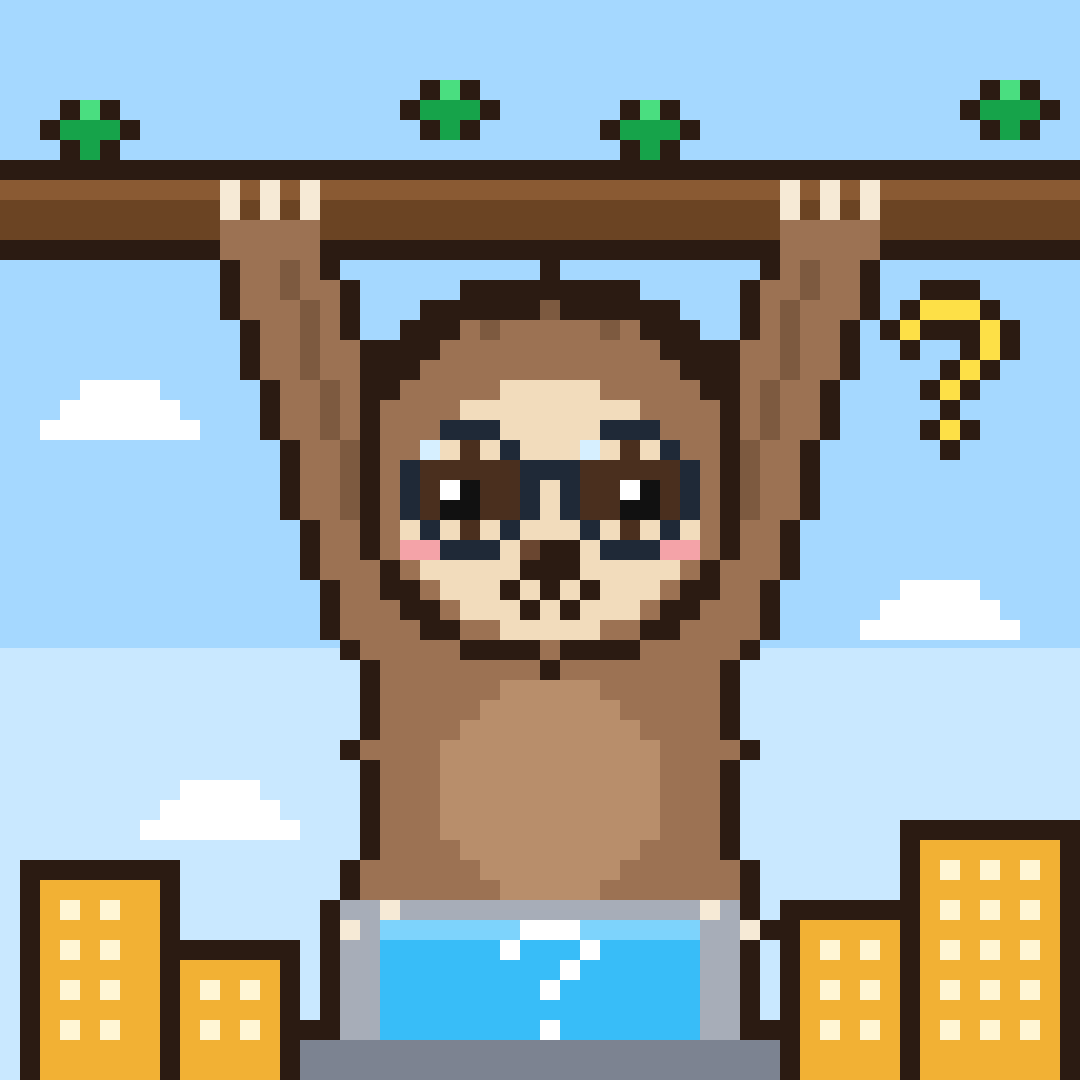
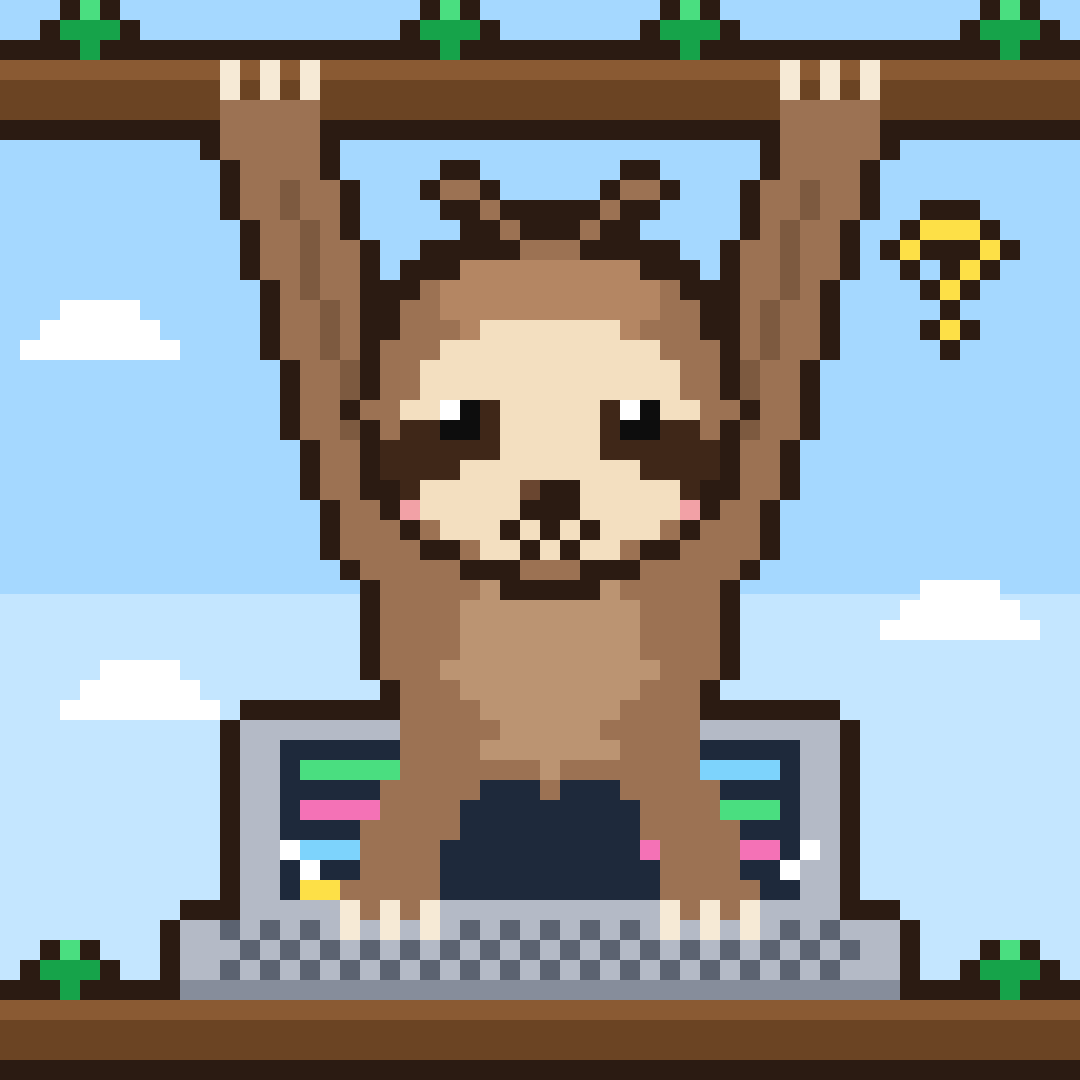
프로필 캐릭터 v2: 안경 빼고 늘보 얼굴 무늬·잔머리, 발로 노트북 코딩, 빌딩 제거 + 제미나이 프롬프트
Claude-Session: https://claude.ai/code/session_01WdwmgLGSEPWt33NoDGx5eo

diff --git a/brand/pixel.js b/brand/pixel.js
@@ -1,63 +1,65 @@
-// 🦥 빌딩늘보 프로필 캐릭터 — 도트(픽셀) 버전
-// 54×54 칸에 한 칸씩 칠하고, 테두리는 자동으로 둘러요. 다시 뽑기: node brand/render-pixel.js
-// 콘셉트: 나뭇가지에 매달린 코딩 모르는 나무늘보 · 동그란 안경 · 발로 붙잡은 노트북 화면엔 "?" · 머리 위에도 "?"
-function pixelSloth(o){o=o||{};const N=54,G=[...Array(N)].map(()=>Array(N).fill(null));
- const C={fur:'#9c7253',fur2:'#7d5a40',belly:'#b88e6b',face:'#f2dcbc',patch:'#4a2f1e',eye:'#111111',hi:'#ffffff',nose:'#2b1b12',
-  frame:'#1f2937',lens:'#d6efff',claw:'#f6ead6',lap:'#a7adb8',lap2:'#7c8391',scr:'#38bdf8',scr2:'#7dd3fc',q:'#ffffff',blush:'#f4a3a8',OL:'#2b1b12'};
+// 🦥 빌딩늘보 프로필 캐릭터 — 도트(픽셀) 버전 v2
+// 54×54칸에 한 칸씩 칠하고, 테두리는 자동으로 둘러요. 다시 뽑기: node brand/render-pixel.js
+// 콘셉트: 두 손으로 나뭇가지에 매달린 나무늘보 · 나무늘보 얼굴 무늬(눈가 줄무늬) · 머리 위 잔머리 두 가닥
+//         · 아래 가지에 놓인 노트북을 발로 타닥타닥 치며 개발 중 · 머리 옆 "?" (코딩 모름)
+function pixelSloth(){const N=54,G=[...Array(N)].map(()=>Array(N).fill(null));
+ const C={fur:'#9c7253',fur2:'#7d5a40',fur3:'#b48663',belly:'#bb9472',face:'#f3dfc0',stripe:'#3f2718',eye:'#0d0d0d',hi:'#ffffff',nose:'#2b1b12',
+  claw:'#f6ead6',lap:'#b4bac6',lap2:'#868d9b',key:'#5b6270',scr:'#1e293b',blush:'#f2a1a6',OL:'#2b1b12'};
  const set=(x,y,c)=>{x=Math.round(x);y=Math.round(y);if(x>=0&&y>=0&&x<N&&y<N)G[y][x]=c};
- const ell=(cx,cy,rx,ry,c)=>{for(let y=Math.floor(cy-ry);y<=cy+ry;y++)for(let x=Math.floor(cx-rx);x<=cx+rx;x++){const dx=(x-cx)/rx,dy=(y-cy)/ry;if(dx*dx+dy*dy<=1)set(x,y,c)}};
+ const ell=(cx,cy,rx,ry,c,rot)=>{const r=rot||0,cs=Math.cos(r),sn=Math.sin(r),R=Math.max(rx,ry)+1;
+  for(let y=Math.floor(cy-R);y<=cy+R;y++)for(let x=Math.floor(cx-R);x<=cx+R;x++){const dx=x-cx,dy=y-cy,u=(dx*cs+dy*sn)/rx,v=(-dx*sn+dy*cs)/ry;if(u*u+v*v<=1)set(x,y,c)}};
  const rect=(x0,y0,w,h,c)=>{for(let y=y0;y<y0+h;y++)for(let x=x0;x<x0+w;x++)set(x,y,c)};
- const ring=(cx,cy,r,c)=>{for(let y=Math.floor(cy-r-1);y<=cy+r+1;y++)for(let x=Math.floor(cx-r-1);x<=cx+r+1;x++){const d=Math.hypot(x-cx,y-cy);if(d<=r+.5&&d>=r-.6)set(x,y,c)}};
- const Q=['.###.','#...#','....#','...#.','..#..','.....','..#..'];const qm=(x0,y0,c)=>Q.forEach((row,y)=>[...row].forEach((ch,x)=>{if(ch==='#')set(x0+x,y0+y,c)}));
  const line=(x0,y0,x1,y1,w,c)=>{const n=Math.ceil(Math.hypot(x1-x0,y1-y0)*2);for(let i=0;i<=n;i++){const t=i/n;ell(x0+(x1-x0)*t,y0+(y1-y0)*t,w/2,w/2,c)}};
- const Q5=['.###.','#...#','...#.','..#..','.....','..#..'];const qm5=(x0,y0,c)=>Q5.forEach((row,y)=>[...row].forEach((ch,x)=>{if(ch==='#')set(x0+x,y0+y,c)}));
- // 다리 → 노트북 잡기 (몸 뒤)
- line(21,40,19,46,4,C.fur);line(33,40,35,46,4,C.fur);
- // 몸
- ell(27,37,9,9,C.fur);ell(27,39,5.5,5.5,C.belly);
- // 팔: 나뭇가지에서 어깨까지 (팔·몸 경계는 자연스럽게 이어짐)
- line(13,11,19,31,4.4,C.fur);line(41,11,35,31,4.4,C.fur);
- line(14,13,18,27,1,C.fur2);line(40,13,36,27,1,C.fur2);
- // 노트북 (화면이 보이게, 발로 붙잡음)
- rect(17,45,20,8,C.lap);rect(19,46,16,6,C.scr);rect(19,46,16,1,C.scr2);rect(15,52,24,2,C.lap2);
- qm5(25,46,C.q);
- [[17,46],[19,45],[35,45],[37,46]].forEach(([x,y])=>set(x,y,C.claw));
- // 머리: 테두리 고리를 먼저 둘러 팔과 구분
- ell(27,23.5,10,9.5,C.OL);ell(27,23.5,9,8.5,C.fur);
- ell(27,25,7.5,6.4,C.face);
- // 눈 무늬
- ell(23,24,2.8,2,C.patch);ell(31,24,2.8,2,C.patch);
- // 동그란 안경
- ring(23,24,3,C.frame);ring(31,24,3,C.frame);set(27,23,C.frame);
+ const Q=['.###.','#...#','...#.','..#..','.....','..#..'];const qm=(x0,y0,c)=>Q.forEach((row,y)=>[...row].forEach((ch,x)=>{if(ch==='#')set(x0+x,y0+y,c)}));
+ // ---- 노트북 (아래 가지 위에 놓임, 화면엔 코드 줄) ----
+ rect(12,36,30,10,C.lap);rect(14,37,26,8,C.scr);
+ [[15,38,6,'#4ade80'],[15,40,4,'#f472b6'],[15,42,7,'#7dd3fc'],[15,44,3,'#fde047'],[33,38,6,'#7dd3fc'],[34,40,5,'#4ade80'],[32,42,7,'#f472b6'],[34,44,4,'#4ade80']].forEach(([x,y,w,c])=>rect(x,y,w,1,c));
+ rect(9,46,36,4,C.lap);rect(9,49,36,1,C.lap2);
+ for(let y=46;y<=48;y++)for(let x=11+(y%2);x<=42;x+=2)set(x,y,C.key);
+ // ---- 몸 ----
+ ell(27,31,8.5,8,C.fur);ell(27,33,5,5,C.belly);
+ // 다리 → 발로 키보드 타닥타닥
+ line(22,36,19,44,4,C.fur);line(32,36,35,44,4,C.fur);
+ [[17,46],[19,46],[21,46],[33,46],[35,46],[37,46]].forEach(([x,y])=>{set(x,y,C.claw);set(x,y-1,C.claw)});
+ // ---- 팔: 두 손으로 위 가지를 꽉 ----
+ line(13,6,19,27,4.4,C.fur);line(41,6,35,27,4.4,C.fur);
+ line(14,9,18,23,1,C.fur2);line(40,9,36,23,1,C.fur2);
+ // ---- 머리 (테두리 고리로 팔과 구분) ----
+ ell(27,20,10,9.2,C.OL);ell(27,20,9,8.2,C.fur);
+ ell(27,14.5,6,2.4,C.fur3);// 정수리 밝은 털
+ // 잔머리 두 가닥 (살짝 말린 모양)
+ [[25,11],[24,10],[23,9],[22,9]].forEach(([x,y])=>set(x,y,C.fur));
+ [[29,11],[30,10],[31,9],[32,9]].forEach(([x,y])=>set(x,y,C.fur));
+ // 얼굴 가면
+ ell(27,21.5,7.6,6.4,C.face);
+ // 나무늘보 눈가 줄무늬 (눈에서 바깥 아래로 흘러내림)
+ ell(21.6,21.8,3.6,1.7,C.stripe,-0.5);ell(32.4,21.8,3.6,1.7,C.stripe,0.5);
  // 눈 + 반짝
- rect(22,24,2,2,C.eye);set(22,24,C.hi);rect(31,24,2,2,C.eye);set(31,24,C.hi);
- // 렌즈 반사
- set(21,22,C.lens);set(29,22,C.lens);
+ rect(22,20,2,2,C.eye);set(22,20,C.hi);rect(31,20,2,2,C.eye);set(31,20,C.hi);
  // 코 · 입 · 볼
- rect(26,27,3,2,C.nose);set(26,27,'#6a4630');
- set(25,29,C.nose);set(26,30,C.nose);set(27,29,C.nose);set(28,30,C.nose);set(29,29,C.nose);
- set(20,27,C.blush);set(21,27,C.blush);set(33,27,C.blush);set(34,27,C.blush);
- // 머리 털 결
- set(24,16,C.fur2);set(27,15,C.fur2);set(30,16,C.fur2);
- // 머리 위 물음표
- qm(45,15,'#fde047');
+ ell(27,24.3,1.9,1.2,C.nose);set(26,24,'#6a4630');
+ set(25,26,C.nose);set(26,27,C.nose);set(27,26,C.nose);set(28,27,C.nose);set(29,26,C.nose);
+ set(20,25,C.blush);set(34,25,C.blush);
+ // 머리 옆 물음표 (코딩 모름)
+ qm(45,11,'#fde047');
+ // 타닥타닥 효과선
+ [[15,43],[14,42],[39,43],[40,42]].forEach(([x,y])=>set(x,y,'#ffffff'));
  // ---- 테두리 자동 ----
  const out=G.map(r=>r.slice());for(let y=0;y<N;y++)for(let x=0;x<N;x++){if(G[y][x])continue;
-  const nb=[[1,0],[-1,0],[0,1],[0,-1]].some(([dx,dy])=>{const v=G[y+dy]&&G[y+dy][x+dx];return v});if(nb)out[y][x]=C.OL}
- // ---- 나뭇가지 (캐릭터 위에, 발톱이 걸치게) ----
+  if([[1,0],[-1,0],[0,1],[0,-1]].some(([dx,dy])=>G[y+dy]&&G[y+dy][x+dx]&&G[y+dy][x+dx]!=='#ffffff'))out[y][x]=C.OL}
+ // ---- 위 가지 (발톱이 걸치게) · 아래 가지 (노트북 받침) ----
  const BR='#6b4423',BR2='#8a5a33',LF='#4ade80',LF2='#16a34a';
- for(let x=0;x<N;x++){out[8][x]=C.OL;out[9][x]=BR2;out[10][x]=BR;out[11][x]=BR;out[12][x]=C.OL}
- [[4,6],[22,5],[32,6],[50,5]].forEach(([x,y])=>{for(let dy=-1;dy<=1;dy++)for(let dx=-2;dx<=2;dx++)if(Math.abs(dx)+Math.abs(dy)<3)out[y+dy][x+dx]=Math.abs(dx)+Math.abs(dy)===2?C.OL:(dy<0?LF:LF2)});
- // 손 발톱이 가지를 감싸게
- [[11,9],[13,9],[15,9],[39,9],[41,9],[43,9]].forEach(([x,y])=>{out[y][x]=C.claw;out[y+1][x]=C.claw;out[y-1][x]=C.OL});
- for(let x=11;x<=15;x++){out[11][x]=C.fur;out[12][x]=C.fur}for(let x=39;x<=43;x++){out[11][x]=C.fur;out[12][x]=C.fur}
- return{N,grid:out,bg:o.bg}}
-// 캔버스에 그리기 (size: 출력 픽셀 크기)
-function drawPixelSloth(x,size,bg){const P=pixelSloth({bg}),k=size/P.N;x.imageSmoothingEnabled=false;
- if(bg){x.fillStyle='#a5d8ff';x.fillRect(0,0,size,size);x.fillStyle='#c9e8ff';x.fillRect(0,size*.6,size,size*.4);
-  const cl=(cx,cy)=>{x.fillStyle='#ffffff';[[0,0,6,2],[1,-1,4,1],[-1,1,8,1]].forEach(([dx,dy,w,h])=>x.fillRect((cx+dx)*k,(cy+dy)*k,w*k,h*k))};cl(3,20);cl(44,30);cl(8,40);
-  // 바닥에 작은 빌딩들 (빌딩늘보의 꿈)
-  [[2,44,6,10],[9,48,5,6],[40,46,5,8],[46,42,7,12]].forEach(([bx,by,w,h])=>{x.fillStyle='#2b1b12';x.fillRect((bx-1)*k,(by-1)*k,(w+2)*k,(h+2)*k);x.fillStyle='#f2b134';x.fillRect(bx*k,by*k,w*k,h*k);x.fillStyle='#fff6d6';
-   for(let yy=by+1;yy<by+h-1;yy+=2)for(let xx=bx+1;xx<bx+w-1;xx+=2)x.fillRect(xx*k,yy*k,k,k)})}
+ const branch=(y0)=>{for(let x=0;x<N;x++){out[y0][x]=out[y0][x]||C.OL;[[1,BR2],[2,BR],[3,BR]].forEach(([d,c])=>{if(!out[y0+d][x]||out[y0+d][x]===C.OL)out[y0+d][x]=c});out[y0+4][x]=C.OL}};
+ branch(2);branch(49);
+ const leaf=(x,y)=>{for(let dy=-1;dy<=1;dy++)for(let dx=-2;dx<=2;dx++){const m=Math.abs(dx)+Math.abs(dy);if(m<3&&y+dy>=0)out[y+dy][x+dx]=m===2?C.OL:(dy<0?LF:LF2)}};
+ [[4,1],[22,1],[34,1],[50,1]].forEach(([x,y])=>leaf(x,y));[[3,48],[50,48]].forEach(([x,y])=>leaf(x,y));
+ // 손 발톱이 위 가지를 감싸게
+ [[11,3],[13,3],[15,3],[39,3],[41,3],[43,3]].forEach(([x,y])=>{out[y][x]=C.claw;out[y+1][x]=C.claw;out[y-1][x]=C.OL});
+ for(let x=11;x<=15;x++){out[5][x]=C.fur;out[6][x]=C.fur}for(let x=39;x<=43;x++){out[5][x]=C.fur;out[6][x]=C.fur}
+ return{N,grid:out}}
+// 캔버스에 그리기 (size: 출력 픽셀 크기, bg: 하늘 배경)
+function drawPixelSloth(x,size,bg){const P=pixelSloth(),k=size/P.N;x.imageSmoothingEnabled=false;
+ if(bg){x.fillStyle='#a5d8ff';x.fillRect(0,0,size,size);x.fillStyle='#c4e6ff';x.fillRect(0,size*.55,size,size*.45);
+  const cl=(cx,cy)=>{x.fillStyle='#ffffff';[[0,0,6,2],[1,-1,4,1],[-1,1,8,1]].forEach(([dx,dy,w,h])=>x.fillRect((cx+dx)*k,(cy+dy)*k,w*k,h*k))};cl(2,16);cl(45,30);cl(4,34)}
  P.grid.forEach((row,y)=>row.forEach((c,xx)=>{if(c){x.fillStyle=c;x.fillRect(Math.floor(xx*k),Math.floor(y*k),Math.ceil(k),Math.ceil(k))}}))}
 if(typeof module!=='undefined')module.exports={pixelSloth,drawPixelSloth};

diff --git a/brand/gemini-prompt.md b/brand/gemini-prompt.md
@@ -1,0 +1,55 @@
+# 🦥 빌딩늘보 프로필 캐릭터 — 제미나이(Gemini) 이미지 프롬프트
+
+사용법: 제미나이 앱에서 이미지 만들기를 고르고, 아래 프롬프트를 그대로 붙여 넣어요.
+`brand/pixel_profile.png`를 **같이 첨부**하면 이 도트 그림을 바탕으로 더 비슷하게 그려 줘요.
+영어 프롬프트가 결과가 더 안정적이에요. 한국어 버전도 같이 적어 뒀어요.
+
+---
+
+## 1. 도트(픽셀) 버전 — 지금 캐릭터 그대로 고급스럽게
+
+**영어 (추천)**
+```
+A cute pixel art profile picture of a baby three-toed sloth, 64x64 retro game sprite style, clean pixel grid, bold dark brown outlines, no anti-aliasing.
+The sloth hangs from a tree branch at the top of the image, gripping it firmly with BOTH hands and long cream-colored claws, arms stretched up.
+Face: classic sloth face markings — a light cream face mask, dark brown stripes running from each eye diagonally down and outward, small shiny black eyes with a white highlight, a dark oval nose, a tiny gentle smile, soft pink cheeks.
+Two thin curly stray hairs sticking up from the top of its head.
+Below the sloth, an open laptop rests on a lower tree branch. The sloth is typing on the laptop keyboard with its FEET (toe claws on the keys), like a developer coding. The laptop screen shows colorful lines of code (green, pink, blue, yellow) on a dark navy background. Small white "tap tap" motion sparks near the feet.
+A small yellow pixel question mark floats beside its head (it doesn't really know how to code).
+Warm brown fur with a lighter belly. Simple light blue sky background with a few white pixel clouds and small green leaves on the branches.
+Centered composition that still works when cropped into a circle for an Instagram profile picture. Square 1:1.
+No glasses, no buildings, no text, no watermark.
+```
+
+**한국어**
+```
+귀여운 아기 세발가락 나무늘보 도트(픽셀) 아트 프로필 사진. 64×64 레트로 게임 스프라이트 스타일, 굵은 진갈색 테두리, 안티앨리어싱 없음.
+나무늘보가 그림 위쪽 나뭇가지에 두 손으로 매달려 있고, 크림색 긴 발톱으로 가지를 꽉 잡고 팔을 위로 쭉 뻗고 있음.
+얼굴: 나무늘보 특유의 무늬 — 밝은 크림색 얼굴, 눈에서 바깥 아래로 흘러내리는 진갈색 줄무늬, 하얀 반짝임이 있는 작고 까만 눈, 진한 타원형 코, 작은 미소, 분홍 볼.
+머리 위에 살짝 말린 잔머리 두 가닥.
+아래쪽 나뭇가지 위에 열린 노트북이 있고, 나무늘보가 발(발톱)로 키보드를 치며 개발하는 중. 노트북 화면에는 어두운 남색 바탕에 알록달록한 코드 줄(초록·분홍·파랑·노랑). 발 근처에 '타닥타닥' 하얀 효과.
+머리 옆에 작은 노란 도트 물음표 (코딩을 잘 모름).
+따뜻한 갈색 털, 밝은 배. 연한 하늘색 배경에 하얀 도트 구름, 가지에 작은 초록 잎.
+인스타 프로필처럼 동그랗게 잘려도 괜찮게 가운데 배치. 정사각형 1:1.
+안경 없음, 빌딩 없음, 글자 없음, 워터마크 없음.
+```
+
+---
+
+## 2. 말랑한 일러스트 버전 (도트 말고 다른 느낌도 보고 싶을 때)
+
+```
+A cute chibi-style illustration of a baby three-toed sloth for an Instagram profile picture, soft rounded shapes, thick clean outlines, flat pastel colors, sticker style.
+It hangs from a tree branch with both hands, has classic sloth face markings (cream face mask, dark brown stripes from the eyes going diagonally down and outward, shiny black eyes, dark nose, small smile, pink cheeks) and two curly stray hairs on top of its head.
+Below it, an open laptop sits on a lower branch and the sloth types on the keyboard with its feet like a developer; the screen shows colorful code lines. A small yellow question mark floats next to its head.
+Light blue sky background, centered, square 1:1.
+No glasses, no buildings, no text, no watermark.
+```
+
+---
+
+## 원하는 대로 바꾸는 팁
+- 표정을 바꾸려면: `a tiny gentle smile` → `a sleepy happy face with half-closed eyes` (졸린 얼굴)
+- 털 색: `warm brown fur` → `light grayish-brown fur` (회갈색, 실제 나무늘보에 가까움)
+- 결과가 너무 사실적이면 끝에 `kawaii, very simple, game sprite`를 붙여요.
+- 결과가 마음에 들면 그 이미지를 다시 첨부하고 "이 캐릭터 그대로, 노트북 화면만 더 크게"처럼 한 가지씩 고쳐 달라고 해요.

diff --git a/devlog/2026-11-16.md b/devlog/2026-11-16.md
@@ -61,11 +61,23 @@
 
 🎬 릴스 소재: "AI한테 나무늘보 그려달라 했더니 곰이 나옴" → 시안 1·2·3 비교
 
+🦥 "안경은 빼고 나무늘보 얼굴 무늬를 살려주며 머리에는 잔머리 두 가닥을 살려주세요. 두 손으로 나무를 잡고 있는 것은 좋고, 발로 노트북을 타이핑하며 개발하는 모습으로 그려주되 빌딩은 빼주세요. 이미지도 만들어주고 제미나이용 프롬포트도 뽑아줘"
+
+🤖 v2로 다시 그림
+- 안경 ❌ → 눈에서 바깥 아래로 흘러내리는 **나무늘보 눈가 줄무늬** + 크림색 얼굴
+- 잔머리 두 가닥: 처음엔 두 가닥이 붙어서 작은 컵 모양이 됨 🍵 → 바깥으로 벌려서 해결
+- 아래 나뭇가지에 노트북을 두고 **발로 타닥타닥** 코딩 (화면엔 알록달록 코드 줄)
+- 빌딩 ❌ → 하늘·구름·나뭇잎만
+- 머리 옆 노란 "?"는 그대로 (아직 코딩 모름)
+- 제미나이용 프롬프트(영어·한국어, 도트 버전·일러스트 버전): `brand/gemini-prompt.md`
+
+🎬 릴스 소재: "안경 쓴 늘보 → 진짜 늘보 얼굴로" 변신 비교 · "발로 코딩하는 늘보"
+
 ---
 ### 오늘의 결과물
 - 인스타 `@tree_null.vo` 개설
 - 콘셉트 '빌딩늘보' 확정
-- 프로필 캐릭터 도트 그림 1차 완성 (`brand/pixel_profile.png`)
+- 프로필 캐릭터 도트 그림 v2 완성 (`brand/pixel_profile.png`) + 제미나이 프롬프트
 - 개발 일지 시작 (`devlog/`)
 
 ### 💰 오늘의 수익

diff --git a/brand/README.md b/brand/README.md
@@ -2,9 +2,11 @@
 
 인스타 `@tree_null.vo` 마스코트예요. 코딩 모르는 나무늘보가 AI로 게임·앱·영상·3D 캐릭터를 만들며 '빌딩늘보'를 꿈꾸는 콘셉트.
 
-- ⭐ `pixel_profile.png` / `pixel_sloth.png` — **현재 프로필 캐릭터**(도트 54×54칸 → 1080). 나뭇가지에 매달린 안경 쓴 늘보 + 노트북 "?". 그림 코드 `pixel.js`, 다시 뽑기 `node brand/render-pixel.js`
+- ⭐ `pixel_profile.png` / `pixel_sloth.png` — **현재 프로필 캐릭터**(도트 54×54칸 → 1080). 두 손으로 가지에 매달린 늘보 · 눈가 줄무늬 · 잔머리 두 가닥 · 발로 노트북 코딩 · 머리 옆 "?". 그림 코드 `pixel.js`, 다시 뽑기 `node brand/render-pixel.js`
 - (연습 시안) `sloth_profile.png` — 1080×1080, 하늘·금빛 빌딩 배경 (인스타 프로필용, 동그랗게 잘려도 얼굴이 가운데)
 - `sloth_mascot.png` — 1024×1024, 투명 배경 (영상·썸네일에 얹기용)
 - `sloth.js` — 그림 코드(`drawSloth`). 색·소품을 바꾸려면 여기를 고치고 `node brand/render.js`로 다시 뽑아요.
 
 디자인: 노란 공사 안전모(빌딩 짓는 중 + 안전모 배지에 작은 빌딩) · 휴대폰 속 짹짹 병아리와 육각 타일(첫 게임) · 굵은 테두리 치비 스타일(게임 2D 그림과 같은 느낌).
+
+- `gemini-prompt.md` — 제미나이 이미지 프롬프트(영어·한국어). `pixel_profile.png`를 첨부해서 쓰면 더 비슷하게 나와요.
